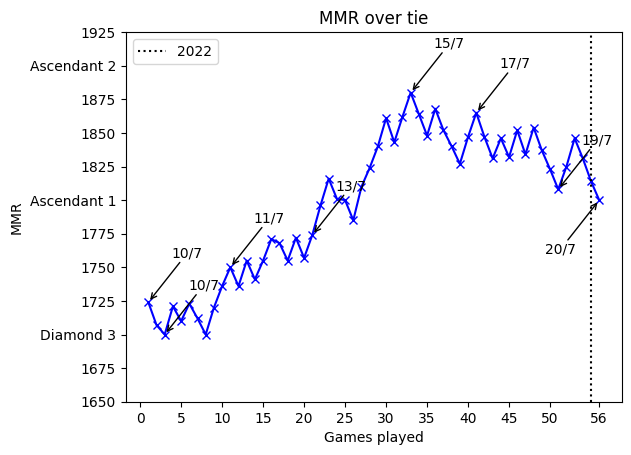
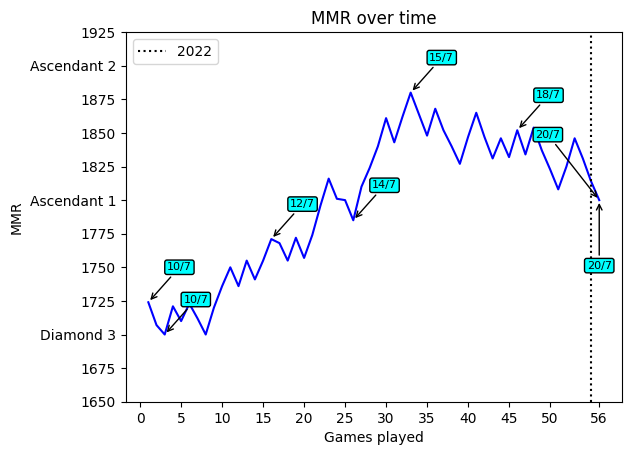
clean up

diff --git a/valorant.py b/valorant.py
@@ -7,6 +7,53 @@ from io import BytesIO
 import random
 import configparser
 
+def get_data(category, ign="", tag="", region=""):
+
+    key = get_key()
+    headers = {'accept' : 'application/json', 'Authorization' : key}
+    errors = {429 : 'welp', 403 : 'Forbidden', 404 : 'User not found', 500 : 'No matches available'}
+
+    if region != "":
+        if category == "leaderboard":
+            url = f"https://api.henrikdev.xyz/valorant/v1/leaderboard/{region}"
+        
+        if category == "status":
+            url = f'https://api.henrikdev.xyz/valorant/v1/status/{region}'
+
+    else:
+        if ign == "":
+            return(False, False)
+
+        if tag == "":
+            tag = get_tag(ign)
+            if not tag:
+                return (False, 'tag not found')
+
+        if category == "account":
+            url = f'https://api.henrikdev.xyz/valorant/v1/account/{ign}/{tag}'
+
+        elif category == "mmr":
+            url = f'https://api.henrikdev.xyz/valorant/v2/mmr/ap/{ign}/{tag}'
+        
+        elif category == "mmr history":
+            url = f"https://api.henrikdev.xyz/valorant/v1/mmr-history/ap/{ign}/{tag}"
+    
+    r = requests.get(url, headers=headers)
+
+    if r.status_code in errors.keys():
+        return (False, errors[r.status_code])
+    
+    if r.status_code == 200:
+        john = json.loads(r.text)
+
+        if ign != "":
+            if john['name'] == None or john['tag'] == None or ('error' in john.keys()):
+                return (False, 'name/tag error?')
+        
+        return (True, john)
+
+    return (False, 'some error')
+
 def get_key():
     c = configparser.ConfigParser()
     c.read('config.ini')
@@ -22,34 +69,6 @@ def get_tag(ign):
             return player.tag
     
     return False
-
-def get_mmr_history(ign, tag=""):
-
-    if tag == "":
-        tag = get_tag(ign)
-        if not tag:
-            return (False, 'tag not found')
-    
-    url = f"https://api.henrikdev.xyz/valorant/v1/mmr-history/ap/{ign}/{tag}"
-
-    key = get_key()
-    headers = {'accept' : 'application/json', 'Authorization' : key}
-    r = requests.get(url, headers=headers)
-    
-    errors = {429 : 'welp', 403 : 'Forbidden', 404 : 'User not found', 500 : 'No matches available'}
-
-    if r.status_code in errors.keys():
-        return (False, errors[r.status_code])
-    
-    if r.status_code == 200:
-        john = json.loads(r.text)
-
-        if john['name'] == None or john['tag'] == None or ('error' in john.keys()):
-            return (False, 'name/tag error?')
-        
-        return (True, john)
-
-    return (False, 'some error')
 
 def get_file_mmr(ign):
 
@@ -79,18 +98,12 @@ def initialise_file(ign):
 
 def update_database(ign, tag=""):
 
-    if tag == "":
-        tag = get_tag(ign)
-        if not tag:
-            return (False, 'tag not found')
-    
-    player_data = get_mmr_history(ign, tag)
-
+    player_data = get_data('mmr history', ign=ign, tag=tag)
     if not player_data[0]:
-        return player_data
+        return player_data[1]
+    else:
+        player_data = player_data[1]
 
-    player_data = player_data[1]
-    
     player_file_path = f'elo_history/{ign}.txt'
 
     if os.path.isfile(player_file_path) == False:
@@ -233,16 +246,13 @@ def local_leaderboard():
 
 def region_leaderboard(region, length=20):
 
-    url = f"https://api.henrikdev.xyz/valorant/v1/leaderboard/{region}"
-    
-    headers = {'accept': 'application/json'}
-    r = requests.get(url, headers=headers)
-
-    if str(r) == "<Response [204]>":
-        return False
+    data = get_data('leaderboard', region=region)
+    if not data[0]:
+        return data[1]
+    else:
+        data = data[1]
 
     regions = {"ap" : "Asia Pacific", "eu" : "Europe", "kr" : "Korea", "na" : "North America"}
-    data = json.loads(r.text)
     players = []
     
     for i in range(length):
@@ -265,24 +275,14 @@ def region_leaderboard(region, length=20):
 
 def stats(ign, tag=""):
 
-    if tag == "":
-        tag = get_tag(ign)
-        if not tag:
-            return "Player not found, check syntax: (username#tag)"
-
-    url = f'https://api.henrikdev.xyz/valorant/v2/mmr/ap/{ign}/{tag}'
-    r = requests.get(url)
-
-    if str(r) == "<Response [204]>":
-        return "Player not found"
-
-    john = json.loads(r.text)
-
-    if john['status'] == '404' or john['status'] == '500':
-        return "Player not found, check syntax: (username#tag)"
+    john = get_data('mmr', ign=ign, tag=tag)
+    if not john[0]:
+        return john[1]
+    else:
+        john = john[1]
     
-    data =  john['data']['by_season']
-
+    
+    data = john['data']['by_season']
     keys = data.keys()
     final = []
 
@@ -295,25 +295,23 @@ def stats(ign, tag=""):
             rank = data[key]['final_rank_patched']
             final.append([f'Episode {key[1]} Act {key[3]}:', f'{rank}\nGames Played: {games}\nWinrate: {round((wins/games) * 100, 2)}%'])
     
-    url = f'https://api.henrikdev.xyz/valorant/v1/account/{ign}/{tag}'
-    r = requests.get(url)
-    john = json.loads(r.text)
+    john = get_data('account', ign=ign, tag=tag)
+    if not john[0]:
+        return john[1]
+    else:
+        john = john[1]
+
     card = john['data']['card']['small']
 
     return [final, card]
 
 def get_banner(ign, tag):
 
-    url = f'https://api.henrikdev.xyz/valorant/v1/account/{ign}/{tag}'
-    r = requests.get(url)
-
-    if str(r) == "<Response [204]>":
-        return "Player not found"
-
-    data = json.loads(r.text)
-
-    if data['status'] != '200':
-        return "Player not found, check syntax: (ign#tag)"
+    data = get_data('account', ign=ign, tag=tag)
+    if not data[0]:
+        return data[1]
+    else:
+        data = data[1]
     
     url = data['data']['card']['large']
     r = requests.get(url, allow_redirects=True)
@@ -322,46 +320,21 @@ def get_banner(ign, tag):
 
     return True
 
-def account_check(ign, tag):
-
-    url = f'https://api.henrikdev.xyz/valorant/v1/account/{ign}/{tag}'
-
-    headers = {'accept': 'application/json'}
-    r = requests.get(url, headers=headers)
-
-    if str(r) == "<Response [204]>":
-        return False
-
-    data = json.loads(r.text)
-
-    if 'status' in data and (data['status'] == '404'):
-        return False
-    
-    if 'statusCode' in data and (data['statusCode'] != 404):
-        return False
-
-    return True
-
 def servercheck():
-
     counter = 0
     report = ""
     regions = {"ap" : "Asia Pacific", "eu" : "Europe", "kr" : "Korea", "na" : "North America"}
 
     for elem in regions.keys():
         
-        url = f'https://api.henrikdev.xyz/valorant/v1/status/{elem}'
+        data = get_data('status', region=elem)
+        if not data[0]:
+            return data[1]
+        else:
+            data = data[1]
 
-        headers = {'accept': 'application/json'}
-        r = requests.get(url, headers=headers)
-
-        if r.status_code != 200:
-            break
-        
-        john = json.loads(r.text)
-
-        maintenances = len(john['data']['maintenances'])
-        incidents = len(john['data']['incidents'])
+        maintenances = len(data['data']['maintenances'])
+        incidents = len(data['data']['incidents'])
         counter += maintenances + incidents
 
         report += f'{regions[elem]}:\nMaintenances - {maintenances}\nIncidents - {incidents}\n'
@@ -377,7 +350,7 @@ def add_player(ign, tag):
     playerlist = playerclass.PlayerList("playerlist.csv")
     playerlist.load()
 
-    if not account_check(ign, tag):
+    if not get_data('account', ign=ign, tag=tag)[0]:
         return "Account does not exist"
 
     player = playerclass.Player(ign.lower(), tag.lower())
@@ -409,7 +382,8 @@ def crosshair(code):
     
     url = f"https://api.henrikdev.xyz/valorant/v1/crosshair/generate?id={code}"
 
-    headers = {'accept': 'application/json'}
+    key = get_key()
+    headers = {'accept' : 'application/json', 'Authorization' : key}
     r = requests.get(url, headers=headers)
 
     img = Image.open(BytesIO(r.content))
@@ -418,7 +392,6 @@ def crosshair(code):
     return True
 
 def random_crosshair():
-
     crosshairs = {  "Reyna Flash" : "0;P;c;6;t;6;o;0.3;f;0;0t;1;0l;5;0o;5;0a;1;0f;0;1t;10;1l;4;1o;5;1a;0.5;1m;0;1f;0", 
                     "Windmill"    : "0;P;c;1;t;6;o;1;d;1;z;6;a;0;f;0;m;1;0t;10;0l;20;0o;20;0a;1;0m;1;0e;0.1;1t;10;1l;10;1o;40;1a;1;1m;0",
                     "Flappy Bird" : "0;P;c;1;t;3;o;1;f;0;0t;6;0l;20;0o;13;0a;1;0f;0;1t;9;1l;4;1o;9;1a;1;1m;0;1f;0",
@@ -437,6 +410,4 @@ def random_crosshair():
     return (name, code)
 
 if __name__ == '__main__':
-    print(update_database('bingchilling'))
-    #print(get_elo_list('oshawott'))
-    #print(get_mmr_history("BingChilling", '222')) 
+    print(servercheck())

diff --git a/datedGraphs.py b/datedGraphs.py
@@ -204,20 +204,11 @@ def agraph():
     plt.title('MMR over tie')
     plt.savefig('date-graph.png', bbox_inches="tight")
 
+def mark_grapha(texts, x, yint, ydates, i):
+    texts.append(plt.text(s=ydates[i], x=x[i], y=yint[i], bbox=dict(boxstyle="round, pad=0.2", fc="cyan"), size=8.0))
+    return texts
 
-texts = []
-
-def mark_grapha(marked, x, yint, ydates, i):
-
-    global texts
-    texts.append(plt.text(s=ydates[i], x=x[i], y=yint[i]))
-
-    # , bbox=dict(boxstyle="square, pad=0.25", fc="yellow"), size='small')
-
-    marked.append(i)
-    return marked
-
-def bgraph():
+def cgraph():
     y = ["1724,Sunday-July-10-2022-7:42-AM", "1707,Sunday-July-10-2022-8:18-AM", "1700,Sunday-July-10-2022-9:14-AM", "1721,Sunday-July-10-2022-9:52-AM", 
         "1710,Sunday-July-10-2022-12:22-PM", "1723,Sunday-July-10-2022-1:07-PM", "1712,Sunday-July-10-2022-1:55-PM", "1700,Monday-July-11-2022-12:28-PM",
         "1720,Monday-July-11-2022-1:19-PM",  "1736,Monday-July-11-2022-2:08-PM", "1750,Monday-July-11-2022-2:54-PM", "1736,Monday-July-11-2022-4:52-PM", 
@@ -321,41 +312,49 @@ def bgraph():
         axes.set_xticks(tickx)
 
     axes.set_yticklabels(labely)
-    p = plt.plot(x, yint, 'bx-')
+    p = plt.plot(x, yint, 'b-')
+    
     marked = []
+    texts = []
 
     peakMMRIndex = get_index(yint, max(yint))
     bottomMMRIndex = get_index(yint, min(yint))
-    marked = mark_grapha(marked, x, yint, ydates, peakMMRIndex)
-    marked = mark_grapha(marked, x, yint, ydates, bottomMMRIndex)
-    marked = mark_grapha(marked, x, yint, ydates, 0)
-    marked = mark_grapha(marked, x, yint, ydates, -1)
+    texts = mark_grapha(texts, x, yint, ydates, peakMMRIndex)
+    texts = mark_grapha(texts, x, yint, ydates, bottomMMRIndex)
+    texts = mark_grapha(texts, x, yint, ydates, 0)
+    texts = mark_grapha(texts, x, yint, ydates, -1)
+    
+    marked.append(peakMMRIndex)
+    marked.append(bottomMMRIndex)
+    marked.append(0)
+    marked.append(-1)
 
-    i = 0
-    while i < len(yint):
+    i = 5
+    while i < len(ydates):
         mark = True
-        for j in range((i - 3), (i + 3)):
+        for j in range((i - 5), (i + 5)):
             if j in marked:
                 mark = False
                 break
             
         if mark:
-            marked = mark_grapha(marked, x, yint, ydates, i)
+            texts = mark_grapha(texts, x, yint, ydates, i)
+            marked.append(i)
         
         i += 10
 
     for year in years:
         plt.vlines(year[1], ymin, ymax, linestyles ="dotted", colors ="k", label=f'20{year[0]}')
 
-    global texts
     adjust_text(texts, arrowprops=dict(arrowstyle='->'), force_points=30)
 
     colour = p[0].get_color()
     plt.axhline(y=y[-1], color=colour, linestyle='dotted')
     plt.xlabel('Games played')
     plt.ylabel('MMR')
-    plt.title('MMR over tie')
+    plt.title('MMR over time')
     plt.legend(loc='upper left')
     plt.savefig('date-graph.png', bbox_inches="tight")
 
-bgraph()
+
+cgraph()
